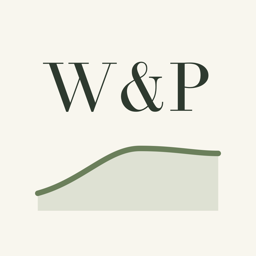
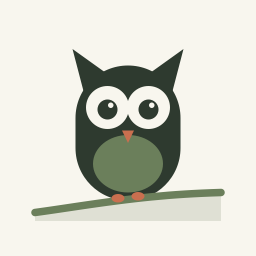
Omdøb hjemmesiden til Payowl med nyt ugle-ikon
Tekster, links og adresse (/payowl/) passer til appens nye navn, og
favicon, app-ikon og delingsbillede viser uglen.

Changed region(s): [[0.125, 0.1875, 0.875, 0.875]]

diff --git a/da/privatliv/index.html b/da/privatliv/index.html
@@ -3,15 +3,15 @@
 <head>
 <meta charset="utf-8">
 <meta name="viewport" content="width=device-width, initial-scale=1">
-<title>Privatlivspolitik · Work&amp;Pay</title>
-<meta name="description" content="Sådan håndterer Work&amp;Pay dine data: alt bliver på din iPhone.">
+<title>Privatlivspolitik · Payowl</title>
+<meta name="description" content="Sådan håndterer Payowl dine data: alt bliver på din iPhone.">
 <meta name="theme-color" content="#2e3a2f">
 <link rel="icon" href="../../assets/favicon-32.png" type="image/png">
 <link rel="apple-touch-icon" href="../../assets/apple-touch-icon.png">
 <meta property="og:type" content="website">
-<meta property="og:title" content="Work&amp;Pay privatlivspolitik">
-<meta property="og:description" content="Sådan håndterer Work&amp;Pay dine data: alt bliver på din iPhone.">
-<meta property="og:image" content="https://arthurhartelius.github.io/workandpay/assets/og-image.png">
+<meta property="og:title" content="Payowl privatlivspolitik">
+<meta property="og:description" content="Sådan håndterer Payowl dine data: alt bliver på din iPhone.">
+<meta property="og:image" content="https://arthurhartelius.github.io/payowl/assets/og-image.png">
 <meta name="twitter:card" content="summary_large_image">
 <link rel="alternate" hreflang="en" href="../../privacy/">
 <link rel="stylesheet" href="../../style.css">
@@ -20,7 +20,7 @@
 <header class="hero">
 <div class="hero-inner">
 <div class="topbar">
-<a class="brand" href="../"><img src="../../assets/icon-256.png" alt="">Work&amp;Pay</a>
+<a class="brand" href="../"><img src="../../assets/icon-256.png" alt="">Payowl</a>
 <nav class="lang-switch" aria-label="Sprog"><span aria-current="page" aria-label="Dansk">DA</span><a href="../../privacy/" hreflang="en" lang="en" aria-label="English">EN</a></nav>
 </div>
 <h1>Privatlivspolitik</h1>
@@ -31,17 +31,17 @@
 <div class="page">
 <main class="card">
 <div class="summary">
-<p><strong>Kort fortalt:</strong> Work&amp;Pay gemmer alt på din iPhone. Jeg, der har lavet appen, får aldrig dine jobs, vagter eller din løn. Appen har ingen konto, ingen reklamer, ingen statistik og ingen sporing, og den deler ingen data med nogen. Den indeholder ingen kode fra andre firmaer til statistik eller reklamer.</p>
+<p><strong>Kort fortalt:</strong> Payowl gemmer alt på din iPhone. Jeg, der har lavet appen, får aldrig dine jobs, vagter eller din løn. Appen har ingen konto, ingen reklamer, ingen statistik og ingen sporing, og den deler ingen data med nogen. Den indeholder ingen kode fra andre firmaer til statistik eller reklamer.</p>
 </div>
 
 <h2>Hvem er ansvarlig</h2>
-<p>Work&amp;Pay er lavet af {{NAME}}, {{ADDRESS}}, Danmark. E-mail: <a href="mailto:{{EMAIL}}">{{EMAIL}}</a>.</p>
+<p>Payowl er lavet af {{NAME}}, {{ADDRESS}}, Danmark. E-mail: <a href="mailto:{{EMAIL}}">{{EMAIL}}</a>.</p>
 <p>Jeg er dataansvarlig for de personoplysninger, der er beskrevet under “Når du skriver til mig”.</p>
 
 <h2>Data i appen</h2>
 <p>Alt, hvad du skriver ind (jobs, timeløn, skatteoplysninger, vagter, noter og dit månedsmål), gemmes kun på din iPhone. Appen sender det ikke til mig eller til andre, så jeg kan ikke se, ændre eller slette det. Du har selv fuld kontrol over det.</p>
 <ul>
-<li><strong>Kalender.</strong> Kun hvis du vælger at importere vagter fra kalenderen, beder appen om adgang til dine kalendere. Den læser begivenhederne i de kalendere, du vælger, på din iPhone, og gemmer kun start- og sluttid for de vagter, du vælger at importere. Du kan når som helst fjerne adgangen i appen Indstillinger under Work&amp;Pay.</li>
+<li><strong>Kalender.</strong> Kun hvis du vælger at importere vagter fra kalenderen, beder appen om adgang til dine kalendere. Den læser begivenhederne i de kalendere, du vælger, på din iPhone, og gemmer kun start- og sluttid for de vagter, du vælger at importere. Du kan når som helst fjerne adgangen i appen Indstillinger under Payowl.</li>
 <li><strong>Billeder.</strong> Hvis du importerer vagter fra et screenshot, vælger du ét billede, og appen får kun adgang til det billede. Teksten læses på din iPhone med Apples indbyggede tekstgenkendelse. Billedet bliver ikke gemt eller sendt nogen steder hen.</li>
 <li><strong>Backup-fil.</strong> Når du trykker på “Gem backup”, laver appen en fil med alle dine data, og du vælger selv, hvor den skal sendes hen eller gemmes. Filen er ikke krypteret, så send den kun til dig selv.</li>
 <li><strong>Backup af telefonen.</strong> Hvis du tager backup af din iPhone med iCloud-backup eller på en computer, kommer appens data med i den backup. Apple eller din computer står for den efter dine egne indstillinger.</li>
@@ -84,7 +84,7 @@
 
 <footer>
 <nav>
-<a href="../">Work&amp;Pay</a>
+<a href="../">Payowl</a>
 <a href="../support/">Support</a>
 </nav>
 </footer>

diff --git a/privacy/index.html b/privacy/index.html
@@ -3,15 +3,15 @@
 <head>
 <meta charset="utf-8">
 <meta name="viewport" content="width=device-width, initial-scale=1">
-<title>Privacy Policy · Work&amp;Pay</title>
-<meta name="description" content="How Work&amp;Pay handles your data: everything stays on your iPhone.">
+<title>Privacy Policy · Payowl</title>
+<meta name="description" content="How Payowl handles your data: everything stays on your iPhone.">
 <meta name="theme-color" content="#2e3a2f">
 <link rel="icon" href="../assets/favicon-32.png" type="image/png">
 <link rel="apple-touch-icon" href="../assets/apple-touch-icon.png">
 <meta property="og:type" content="website">
-<meta property="og:title" content="Work&amp;Pay Privacy Policy">
-<meta property="og:description" content="How Work&amp;Pay handles your data: everything stays on your iPhone.">
-<meta property="og:image" content="https://arthurhartelius.github.io/workandpay/assets/og-image.png">
+<meta property="og:title" content="Payowl Privacy Policy">
+<meta property="og:description" content="How Payowl handles your data: everything stays on your iPhone.">
+<meta property="og:image" content="https://arthurhartelius.github.io/payowl/assets/og-image.png">
 <meta name="twitter:card" content="summary_large_image">
 <link rel="alternate" hreflang="da" href="../da/privatliv/">
 <link rel="stylesheet" href="../style.css">
@@ -20,7 +20,7 @@
 <header class="hero">
 <div class="hero-inner">
 <div class="topbar">
-<a class="brand" href="../"><img src="../assets/icon-256.png" alt="">Work&amp;Pay</a>
+<a class="brand" href="../"><img src="../assets/icon-256.png" alt="">Payowl</a>
 <nav class="lang-switch" aria-label="Language"><a href="../da/privatliv/" hreflang="da" lang="da" aria-label="Dansk">DA</a><span aria-current="page" aria-label="English">EN</span></nav>
 </div>
 <h1>Privacy Policy</h1>
@@ -31,17 +31,17 @@
 <div class="page">
 <main class="card">
 <div class="summary">
-<p><strong>In short:</strong> Work&amp;Pay stores everything on your iPhone. I, the developer, never receive your jobs, shifts or pay. The app has no account, no ads, no analytics and no tracking, and it shares no data with anyone. It contains no code from other companies for analytics or advertising.</p>
+<p><strong>In short:</strong> Payowl stores everything on your iPhone. I, the developer, never receive your jobs, shifts or pay. The app has no account, no ads, no analytics and no tracking, and it shares no data with anyone. It contains no code from other companies for analytics or advertising.</p>
 </div>
 
 <h2>Who is responsible</h2>
-<p>Work&amp;Pay is made by {{NAME}}, {{ADDRESS}}, Denmark. Email: <a href="mailto:{{EMAIL}}">{{EMAIL}}</a>.</p>
+<p>Payowl is made by {{NAME}}, {{ADDRESS}}, Denmark. Email: <a href="mailto:{{EMAIL}}">{{EMAIL}}</a>.</p>
 <p>I am the data controller for the personal data described under “When you email me”.</p>
 
 <h2>Data in the app</h2>
 <p>Everything you enter (jobs, pay rates, tax settings, shifts, notes and your monthly goal) is stored only on your iPhone. The app does not send it to me or to anyone else, so I cannot see, change or delete it. You are in full control of it.</p>
 <ul>
-<li><strong>Calendar.</strong> Only if you choose to import shifts from your calendar, the app asks for access to your calendars. It reads events from the calendars you select, on your iPhone, and saves only the start and end times of the shifts you choose to import. You can remove the access at any time in the iPhone Settings app under Work&amp;Pay.</li>
+<li><strong>Calendar.</strong> Only if you choose to import shifts from your calendar, the app asks for access to your calendars. It reads events from the calendars you select, on your iPhone, and saves only the start and end times of the shifts you choose to import. You can remove the access at any time in the iPhone Settings app under Payowl.</li>
 <li><strong>Photos.</strong> If you import shifts from a screenshot, you pick one picture, and the app only gets access to that picture. Its text is read on your iPhone with Apple’s built-in text recognition. The picture is not saved or sent anywhere.</li>
 <li><strong>Backup file.</strong> When you tap “Gem backup”, the app creates a file with all your data, and you choose where to send or save it. The file is not encrypted, so only send it to yourself.</li>
 <li><strong>Device backups.</strong> If you back up your iPhone with iCloud Backup or to a computer, that backup includes the app’s data. Apple or your computer handles it according to your own settings.</li>
@@ -84,7 +84,7 @@
 
 <footer>
 <nav>
-<a href="../">Work&amp;Pay</a>
+<a href="../">Payowl</a>
 <a href="../support/">Support</a>
 </nav>
 </footer>

diff --git a/da/support/index.html b/da/support/index.html
@@ -3,15 +3,15 @@
 <head>
 <meta charset="utf-8">
 <meta name="viewport" content="width=device-width, initial-scale=1">
-<title>Support · Work&amp;Pay</title>
-<meta name="description" content="Få hjælp til Work&amp;Pay, iPhone-appen til vagter og løn.">
+<title>Support · Payowl</title>
+<meta name="description" content="Få hjælp til Payowl, iPhone-appen til vagter og løn.">
 <meta name="theme-color" content="#2e3a2f">
 <link rel="icon" href="../../assets/favicon-32.png" type="image/png">
 <link rel="apple-touch-icon" href="../../assets/apple-touch-icon.png">
 <meta property="og:type" content="website">
-<meta property="og:title" content="Work&amp;Pay support">
-<meta property="og:description" content="Få hjælp til Work&amp;Pay, iPhone-appen til vagter og løn.">
-<meta property="og:image" content="https://arthurhartelius.github.io/workandpay/assets/og-image.png">
+<meta property="og:title" content="Payowl support">
+<meta property="og:description" content="Få hjælp til Payowl, iPhone-appen til vagter og løn.">
+<meta property="og:image" content="https://arthurhartelius.github.io/payowl/assets/og-image.png">
 <meta name="twitter:card" content="summary_large_image">
 <link rel="alternate" hreflang="en" href="../../support/">
 <link rel="stylesheet" href="../../style.css">
@@ -20,7 +20,7 @@
 <header class="hero">
 <div class="hero-inner">
 <div class="topbar">
-<a class="brand" href="../"><img src="../../assets/icon-256.png" alt="">Work&amp;Pay</a>
+<a class="brand" href="../"><img src="../../assets/icon-256.png" alt="">Payowl</a>
 <nav class="lang-switch" aria-label="Sprog"><span aria-current="page" aria-label="Dansk">DA</span><a href="../../support/" hreflang="en" lang="en" aria-label="English">EN</a></nav>
 </div>
 <h1>Support</h1>
@@ -40,7 +40,7 @@
 
 <footer>
 <nav>
-<a href="../">Work&amp;Pay</a>
+<a href="../">Payowl</a>
 <a href="../privatliv/">Privatlivspolitik</a>
 </nav>
 <p>{{NAME}}, {{ADDRESS}}, Danmark</p>

diff --git a/support/index.html b/support/index.html
@@ -3,15 +3,15 @@
 <head>
 <meta charset="utf-8">
 <meta name="viewport" content="width=device-width, initial-scale=1">
-<title>Support · Work&amp;Pay</title>
-<meta name="description" content="Get help with Work&amp;Pay, the iPhone app for shifts and pay.">
+<title>Support · Payowl</title>
+<meta name="description" content="Get help with Payowl, the iPhone app for shifts and pay.">
 <meta name="theme-color" content="#2e3a2f">
 <link rel="icon" href="../assets/favicon-32.png" type="image/png">
 <link rel="apple-touch-icon" href="../assets/apple-touch-icon.png">
 <meta property="og:type" content="website">
-<meta property="og:title" content="Work&amp;Pay Support">
-<meta property="og:description" content="Get help with Work&amp;Pay, the iPhone app for shifts and pay.">
-<meta property="og:image" content="https://arthurhartelius.github.io/workandpay/assets/og-image.png">
+<meta property="og:title" content="Payowl Support">
+<meta property="og:description" content="Get help with Payowl, the iPhone app for shifts and pay.">
+<meta property="og:image" content="https://arthurhartelius.github.io/payowl/assets/og-image.png">
 <meta name="twitter:card" content="summary_large_image">
 <link rel="alternate" hreflang="da" href="../da/support/">
 <link rel="stylesheet" href="../style.css">
@@ -20,7 +20,7 @@
 <header class="hero">
 <div class="hero-inner">
 <div class="topbar">
-<a class="brand" href="../"><img src="../assets/icon-256.png" alt="">Work&amp;Pay</a>
+<a class="brand" href="../"><img src="../assets/icon-256.png" alt="">Payowl</a>
 <nav class="lang-switch" aria-label="Language"><a href="../da/support/" hreflang="da" lang="da" aria-label="Dansk">DA</a><span aria-current="page" aria-label="English">EN</span></nav>
 </div>
 <h1>Support</h1>
@@ -40,7 +40,7 @@
 
 <footer>
 <nav>
-<a href="../">Work&amp;Pay</a>
+<a href="../">Payowl</a>
 <a href="../privacy/">Privacy Policy</a>
 </nav>
 <p>{{NAME}}, {{ADDRESS}}, Denmark</p>

diff --git a/da/index.html b/da/index.html
@@ -3,15 +3,15 @@
 <head>
 <meta charset="utf-8">
 <meta name="viewport" content="width=device-width, initial-scale=1">
-<title>Work&amp;Pay</title>
+<title>Payowl</title>
 <meta name="description" content="Hold styr på vagter, tillæg og løn efter skat for timelønsjob i Danmark. En iPhone-app.">
 <meta name="theme-color" content="#2e3a2f">
 <link rel="icon" href="../assets/favicon-32.png" type="image/png">
 <link rel="apple-touch-icon" href="../assets/apple-touch-icon.png">
 <meta property="og:type" content="website">
-<meta property="og:title" content="Work&amp;Pay">
+<meta property="og:title" content="Payowl">
 <meta property="og:description" content="Hold styr på vagter, tillæg og løn efter skat for timelønsjob i Danmark.">
-<meta property="og:image" content="https://arthurhartelius.github.io/workandpay/assets/og-image.png">
+<meta property="og:image" content="https://arthurhartelius.github.io/payowl/assets/og-image.png">
 <meta name="twitter:card" content="summary_large_image">
 <link rel="alternate" hreflang="en" href="../">
 <link rel="stylesheet" href="../style.css">
@@ -22,8 +22,8 @@
 <div class="topbar">
 <nav class="lang-switch" aria-label="Sprog"><span aria-current="page" aria-label="Dansk">DA</span><a href="../" hreflang="en" lang="en" aria-label="English">EN</a></nav>
 </div>
-<img class="app-icon" src="../assets/icon-256.png" alt="Work&amp;Pays app-ikon">
-<h1>Work&amp;Pay</h1>
+<img class="app-icon" src="../assets/icon-256.png" alt="Payowls app-ikon">
+<h1>Payowl</h1>
 <p class="meta">Hold styr på vagter, tillæg og løn efter skat for timelønsjob i Danmark.</p>
 </div>
 </header>

diff --git a/index.html b/index.html
@@ -3,15 +3,15 @@
 <head>
 <meta charset="utf-8">
 <meta name="viewport" content="width=device-width, initial-scale=1">
-<title>Work&amp;Pay</title>
+<title>Payowl</title>
 <meta name="description" content="Keep track of shifts, supplements and pay after tax for hourly jobs in Denmark. An iPhone app.">
 <meta name="theme-color" content="#2e3a2f">
 <link rel="icon" href="assets/favicon-32.png" type="image/png">
 <link rel="apple-touch-icon" href="assets/apple-touch-icon.png">
 <meta property="og:type" content="website">
-<meta property="og:title" content="Work&amp;Pay">
+<meta property="og:title" content="Payowl">
 <meta property="og:description" content="Keep track of shifts, supplements and pay after tax for hourly jobs in Denmark.">
-<meta property="og:image" content="https://arthurhartelius.github.io/workandpay/assets/og-image.png">
+<meta property="og:image" content="https://arthurhartelius.github.io/payowl/assets/og-image.png">
 <meta name="twitter:card" content="summary_large_image">
 <link rel="alternate" hreflang="da" href="da/">
 <link rel="stylesheet" href="style.css">
@@ -22,8 +22,8 @@
 <div class="topbar">
 <nav class="lang-switch" aria-label="Language"><a href="da/" hreflang="da" lang="da" aria-label="Dansk">DA</a><span aria-current="page" aria-label="English">EN</span></nav>
 </div>
-<img class="app-icon" src="assets/icon-256.png" alt="Work&amp;Pay app icon">
-<h1>Work&amp;Pay</h1>
+<img class="app-icon" src="assets/icon-256.png" alt="Payowl app icon">
+<h1>Payowl</h1>
 <p class="meta">Keep track of shifts, supplements and pay after tax for hourly jobs in Denmark.</p>
 </div>
 </header>

diff --git a/style.css b/style.css
@@ -1,4 +1,4 @@
-/* Farverne er de samme som i appen (WorkAndPay/Design/Theme.swift).
+/* Farverne er de samme som i appen (Payowl/Design/Theme.swift).
    Kun systemskrifter og ingen eksterne filer: siden må ikke sende besøgendes IP-adresse videre til andre. */
 :root {
   color-scheme: light dark;

diff --git a/README.md b/README.md
@@ -1,8 +1,8 @@
-<img src="assets/icon-256.png" width="96" alt="Work&Pay app icon">
+<img src="assets/icon-256.png" width="96" alt="Payowl app icon">
 
-# Work&Pay
+# Payowl
 
-The website for Work&Pay, an iPhone app for keeping track of shifts, supplements and pay after tax for hourly jobs in Denmark.
+The website for Payowl, an iPhone app for keeping track of shifts, supplements and pay after tax for hourly jobs in Denmark.
 
 Every page exists in English and in Danish (under `/da/`). The DA/EN switch at the top right goes to the same page in the other language.
 
